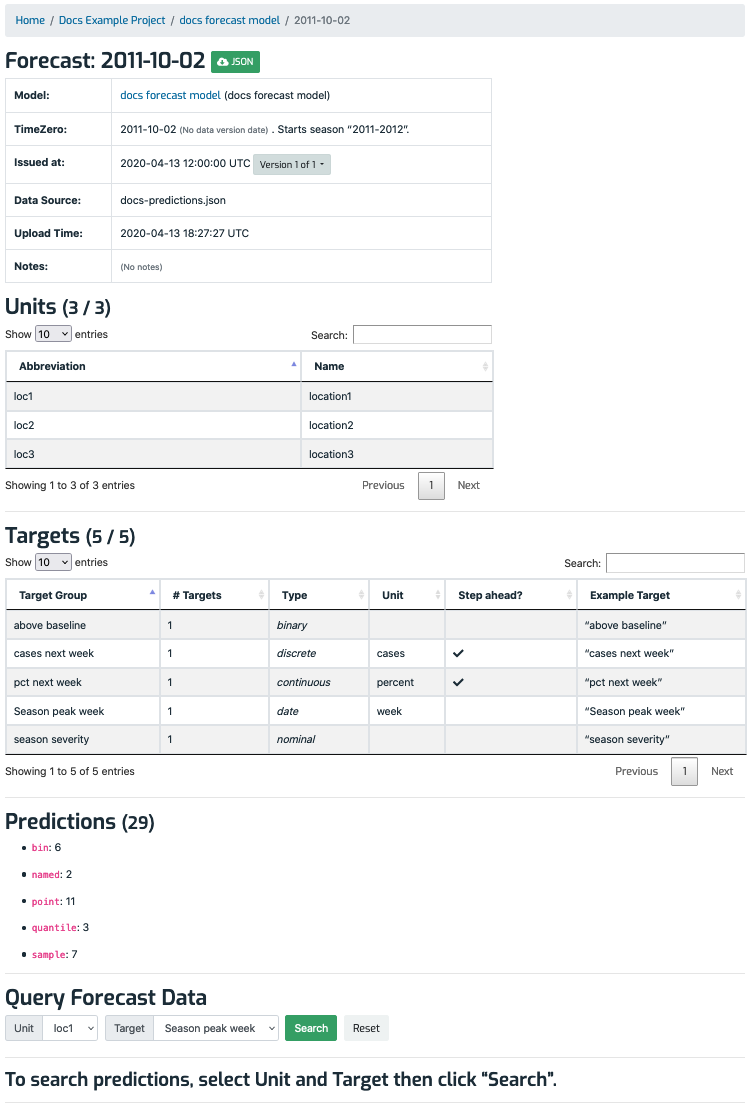
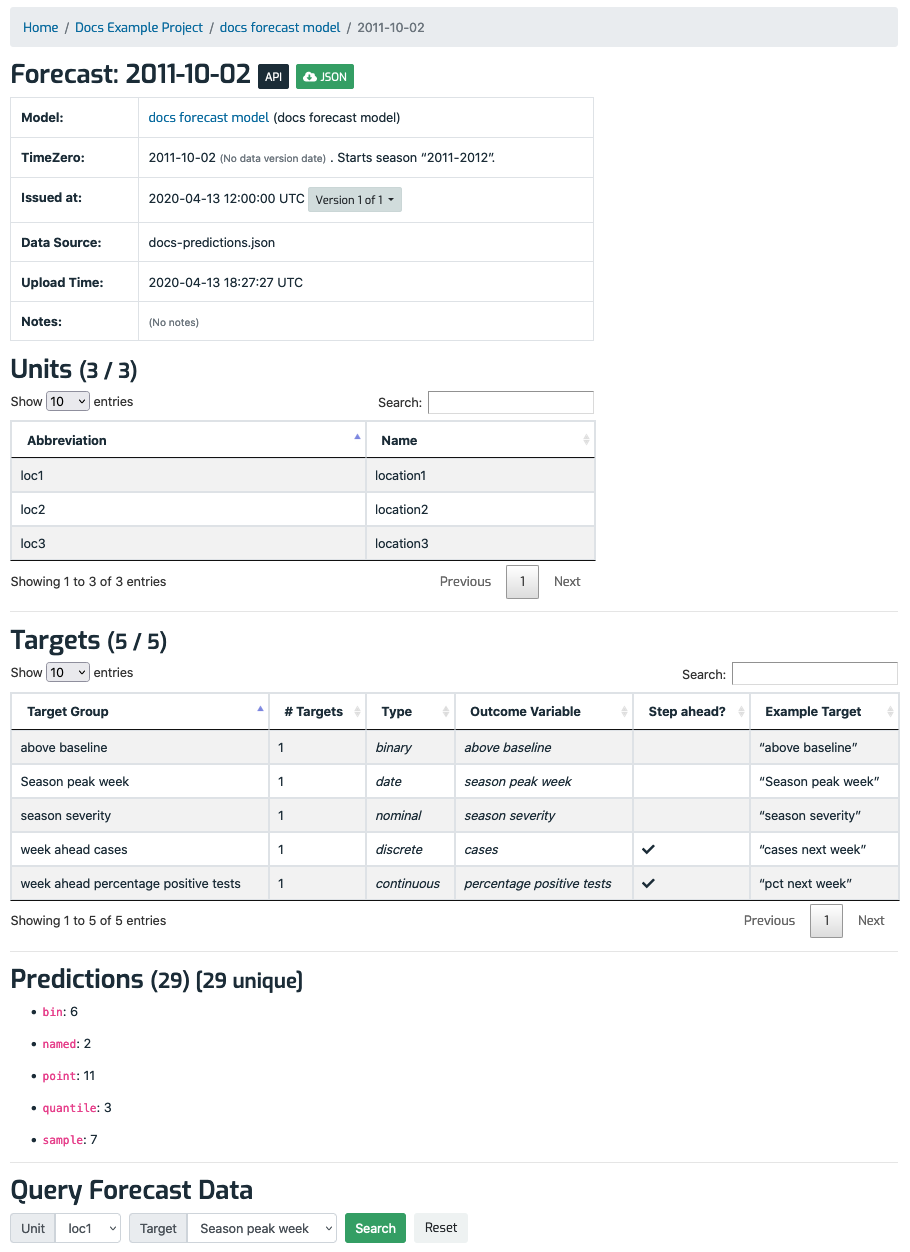
WIP [change Target fields to support visualization #328]

Changed region(s): [[0.0, 0.0, 1.0, 1.0]]

diff --git a/docs/Targets.md b/docs/Targets.md
@@ -1,6 +1,6 @@
 # Forecast Targets in Zoltar
 
-Targets are the fundamental data structure of a forecast. In Zoltar, a single forecast made by a model may give predictions for multiple targets. For example, a single forecast might include a forecast of 1- and 2-week-ahead values and a prediction of when the time series will reach its maximum in a given period of time. When a project is created, the project owner specifies which targets should be part of any submitted forecast. As we will see below, targets have specific properties, and there are several different types of targets that determine which properties and features pertain to a particular target.
+Targets are the fundamental data structure of a forecast. In Zoltar, a single forecast made by a model may give predictions for multiple targets. For example, a single forecast might include a forecast of 1- and 2-week-ahead values and a prediction of when the time series will reach its maximum in a given period of time. When a project is created, the project owner specifies which targets should be part of any submitted forecast. As we will see below, targets have specific properties, and there are several types of targets that determine which properties and features pertain to a particular target.
 
 
 ## Target types
@@ -29,13 +29,13 @@ When created, all targets have a set of parameters that must be defined. Each ty
 
 Here is a table that summarizes which are allowed, optional, and required, by type. legend: 'x' = required, '(x)' = required if `is_step_ahead` is `true`, '-' = disallowed, '~' = optional.
 
-target type   | type | name | description | is_step_ahead |  step_ahead_increment | unit | range | cats 
-------------- | ---- | ---- | ----------- | ------------- | ----------------------| ---- | ----- | ---- 
-continuous    |  x   |  x   |     x       |      x        |          (x)          |  x   |   ~   |  ~   
-discrete      |  x   |  x   |     x       |      x        |          (x)          |  x   |   ~   |  ~   
-nominal       |  x   |  x   |     x       |      x        |          (x)          |  -   |   -   |  x   
-binary        |  x   |  x   |     x       |      x        |          (x)          |  -   |   -   |  -   
-date          |  x   |  x   |     x       |      x        |          (x)          |  x   |   -   |  x   
+target type | type | name | description | outcome_variable | is_step_ahead |  numeric_horizon  |  RDT  | range | cats 
+----------- | ---- | ---- | ----------- | ---------------- | ------------- | ----------------- |  ---- | ----- | ---- 
+continuous  |  x   |  x   |     x       |        x         |      x        |         (x)       |  (x)  |   ~   |  ~   
+discrete    |  x   |  x   |     x       |        x         |      x        |         (x)       |  (x)  |   ~   |  ~   
+nominal     |  x   |  x   |     x       |        x         |      x        |         (x)       |  (x)  |   -   |  x   
+binary      |  x   |  x   |     x       |        x         |      x        |         (x)       |  (x)  |   -   |  -   
+date        |  x   |  x   |     x       |        x         |      x        |         (x)       |  (x)  |   -   |  x   
 
 ### Required parameters for all targets
 
@@ -43,11 +43,23 @@ date          |  x   |  x   |     x       |      x        |          (x)        
 - *description*: A verbose description of what the target is. (The number of characters is not limited.)
 - *type*: One of the five target types named above, e.g., `continuous`.
 - *is_step_ahead*: `true` if the target is one of a sequence of targets that predict values at different points in the future.
-- *step_ahead_increment*: An integer, indicating the forecast horizon represented by this target. It is required if `is_step_ahead` is `true`. 
+- *numeric_horizon*: An integer indicating the forecast horizon represented by this target. It is required if `is_step_ahead` is `true`. 
+- *reference date type* (RDT): An integer that indicates how this target calculates `reference_date` and `target_end_date` from a timezero. It is required if `is_step_ahead` is `true`. The allowed values are hard-coded (see the [valid reference date types](Targets.md#valid-reference-date-types) table below) and will be used for an upcoming visualization feature (more documentation to come then).
+
+### valid reference date types
+
+Following are the allowed reference date types. `id` is the integer value that's actually stored in the database, `name` is the "official" unique name used by [project configuration files](FileFormats.md#project-creation-configuration-json), and `abbreviation` is used to calculate target group names.
+
+id  | name                            | abbreviation 
+--- | ------------------------------- | ------------ 
+0   | DAY                             | day          
+1   | MMWR_WEEK_LAST_TIMEZERO_MONDAY  | week         
+2   | MMWR_WEEK_LAST_TIMEZERO_TUESDAY | week         
+3   | BIWEEK                          | biweek       
+
 
 ### Parameters specific to continuous targets
 
-- *unit*: (Required) E.g., "percent" or "week".
 - *range*: (Optional) a numeric vector of length 2 specifying a lower and upper bound of a range for the continuous target. The range is assumed to be inclusive on the lower bound and open on the upper bound, e.g. [a, b). If range is not specified than range is assumed to be (-infty, infty).
 - *cats*: (Optional, but uploaded `Bin` prediction types will be rejected unless these are specified) an ordered set of numeric values indicating the inclusive lower-bounds for the bins of binned distributions. E.g. if `cats` is specified as [0, 1.1, 2.2] then the implied set of valid intervals would be [0,1.1), [1.1,2.2) and [2.2, \infty). Additionally, if `range` had been specified as [0, 100] in addition to the above `cats`, then the final bin would be [2.2, 100].
   <!-- NGR: is upper bound always specified as infinity?-->
@@ -56,7 +68,6 @@ If both `range` and `cats` are specified, then min(`cats`) must equal the lower 
 
 ### Parameters  specific to discrete targets
 
-- *unit*: (Required) E.g., "cases".
 - *range*: (Optional, but uploaded `Bin` prediction types will be rejected unless `range` is specified) an integer vector of length 2 specifying a lower and upper bound of a range for the continuous target. The range is assumed to be inclusive on both the lower and upper bounds, e.g. [a, b]. If range is not specified than range is assumed to be (-infty, infty).
 - *cats*: (Optional, and can only be specified if `range` is also specified) an ordered set of integer values indicating the inclusive lower-bounds for the bins of binned distributions. E.g. if `cats` is specified as [0, 10, 20, 30, 40, 50] and `range` is specified as [0, 100] then the implied set of valid categories would be [0,10), [10, 20), [20, 30), [30, 40), [40, 50) and [50, 100].
 
@@ -72,7 +83,6 @@ None.
 
 ### Parameters  specific to date targets
 
-- *unit*: (Required) The unit parameter from the set of parameters required for all targets has a special meaning and use for date targets. It is required to be one of "month", "week", "biweek", or "day". This parameter specifies the units of the date target and how certain calculations are performed for dates. All inputs for date targets are required to be in the standard ISO `YYYY-MM-DD` date format. Note: to map dates to biweeks, we use the definitions as presented in [Reich et al (2017)](https://doi.org/10.1371/journal.pntd.0004761.s001).
 - *cats*: (Required) a list of dates in `YYYY-MM-DD` format. These are the only dates that will be considered as valid input for the target. <!-- NGR: do we want to consider encoding the info about which dates are valid for particular ranges of timezeroes? I.e. embed the idea of "seasons" here? I say no, for starters?  -->
 
 <!-- 
@@ -82,8 +92,6 @@ Date targets are represented by the `dates` data type in the database. On the on
 All input data into date targets must be unambiguously readable in "YYYY-MM-DD" or "YYYYMMDD" format. 
 
 Every date target must have a set of dates (also in YYYYMMDD format) that are valid. For example, a "peak week" target might designate only a set of Sundays as valid dates. This would in essence force the dates/values to be a set of pre-specified dates. In the target description the project owner could specify that, external to Zoltar, the given set of dates would be translated into and represented as, say, MMWR weeks using the `MMWRweek` R package, or week-in-year as in `format(date, "%W")` (i.e., using strptime formatting rules).
-
-Based off of the unit in the target definition, every date would use a fixed unit conversion for point forecast scoring. For example, if `unit=="week"` then point forecast scores would be represented by "week" units. So, the truth for a given timezero-datetarget might be truth="2019-12-15" and a point forecast might be pred="2020-01-05" (both values chosen deliberately to be Sundays). Then we could operate on these numbers as "weeks" and determine the best, standardized way to produce that the difference = truth - pred = 3. 
  -->
 
 

diff --git a/docs/ProjectDetailPage.md b/docs/ProjectDetailPage.md
@@ -45,7 +45,7 @@ The table includes the following columns:
 - _Target group_: This column is either a target's name, or a derived name from a group of related targets (step-ahead ones whose step ahead increment is in the name).
 - _# Targets_: How many targets are in the group, or _1_ if not a group.
 - _Type_: The target's [type](Targets.md#target-types).
-- _Unit_: E.g., "percent" or "week". Unit is used when previewing data, and when downloading it. (Be aware that it can be confusing having both **unit** objects as above along with a specific target's unit.)
+- _Outcome Variable_: Human-readable string naming the target variable, e.g., "Incident cases".
 - _Step Ahead?_: Shows two pieces of information: 1) Whether the target is a "step ahead" one, and (if so) 2) what the "step ahead increment" is. (Step ahead targets are used to predict values in the future, and are used by some analysis tools.)
 - _Example Target_: A specific target's name if a group, or the one target's name otherwise.
 

diff --git a/docs/Projects.md b/docs/Projects.md
@@ -63,7 +63,7 @@ The diff function categorizes each change according to the type of change and wh
 - _OBJ_REMOVED_: "" will be removed "" from a project. Removing the target "pct next week", say. 
 - _FIELD_EDITED_: An item's field will be set to a new value. For example, setting the "data_version_date" of the project's time zero named "2011-10-09".
 - _FIELD_ADDED_: Set an item's field that was not set before. Adding a "season_name" to the time zero "2011-10-16", say.
-- _FIELD_REMOVED_: Remove an item's field, such as the "step_ahead_increment" of the target "cases next week"." 
+- _FIELD_REMOVED_: Remove an item's field, such as the "numeric_horizon" of the target "cases next week"." 
 
 As implied above, there are four types of item that can be changed: The _project_ itself or one of its _units_, _targets_, or _time zeros_.
 

diff --git a/docs/FileFormats.md b/docs/FileFormats.md
@@ -32,9 +32,10 @@ Here are the three list objects' formats:
 - `name`: string
 - `description`: string
 - `type`: string - must be one of the following: `continuous`, `discrete`, `nominal`, `binary`, or `date`
+- `outcome_variable`: string
 - `is_step_ahead`: boolean
-- `step_ahead_increment`: integer - negative, zero, or positive
-- `unit`: string
+- `numeric_horizon`: integer - negative, zero, or positive
+- `reference_date_type`: one of the names listed in [valid reference date types](Targets.md#valid-reference-date-types)
 - `range`: an array (list) of two numbers
 - `cats`: an array (list) of one or more numbers or strings (which depends on the target's type's data type)
 - `dates`: an array (list) of one or more strings in the `YYYY-MM-DD` format

diff --git a/docs/ReleaseNotes4_3.md b/docs/ReleaseNotes4_3.md
@@ -1,0 +1,3 @@
+# Welcome to Zoltar 4.3
+
+Zoltar version 4.3 adjusts Zoltar's [Target](Targets.md) data model to add `outcome_variable` to all targets, and to add `numeric_horizon` and `reference_date_type` fields to `is_step_ahead` ones. These changes support upcoming visualization features.
